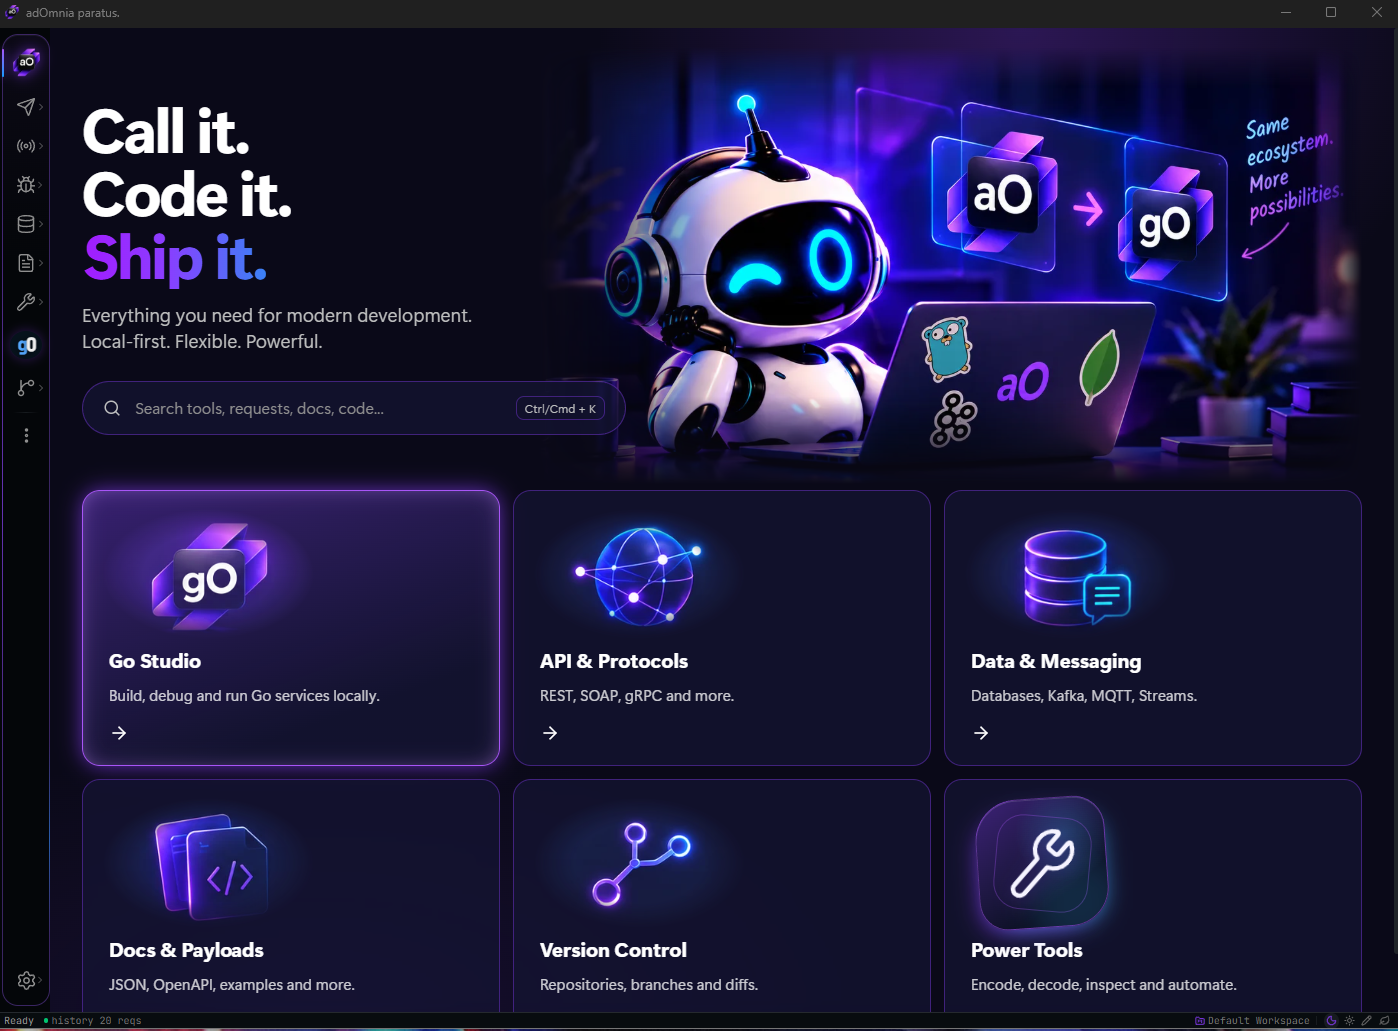
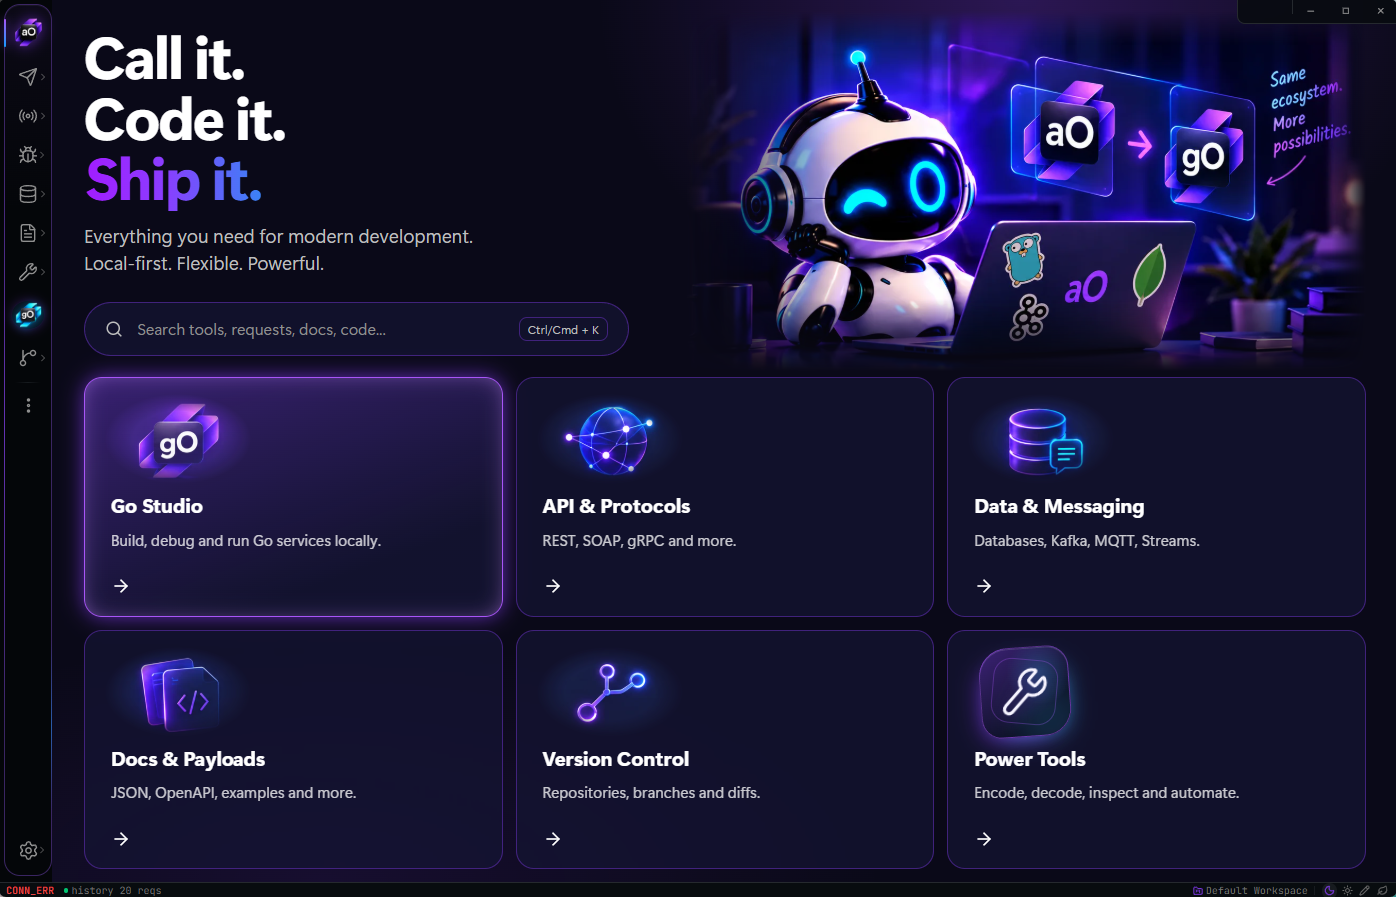
release: v0.9.53 cleaner window, one-screen Hub and Context Inspector

diff --git a/docs/releases/v0.9.53.md b/docs/releases/v0.9.53.md
@@ -1,0 +1,25 @@
+# adOmnia v0.9.53
+
+A cleaner window, a Hub that fits on one screen, a new Go Studio inspector for `context.Context`, and a fix for a confusing gopls error on startup.
+
+## UI fixes
+
+- **System title bar hidden by default.** On Windows and macOS adOmnia draws its own title bar again, including for users who had switched to the system bar after v0.9.49 (Settings v13 migrates that choice once; you can still pick *System* in Settings → Appearance). Linux keeps the system bar.
+- **Detached Go Studio windows match the main window.** They open frameless and the Go Studio toolbar acts as the window bar, so every window has the same chrome.
+- **The Hub fits on one screen.** The hero and the studio cards share the viewport height: all six studios are visible without scrolling.
+
+## Go Studio
+
+- **Context Propagation Inspector** (*View → Context Propagation Inspector*, Alt+9). Static analysis of `context.Context` in the current file, saved or not, with editor markers. It flags:
+  - `context.Background()`/`TODO()` inside a call chain;
+  - timeouts that are missing or too wide (threshold configurable);
+  - context stored in structs and leaked `cancel` funcs;
+  - ignored cancellation, broken chains and trace-ID propagation.
+
+  It works offline. The checks are conservative heuristics: they point at suspicious patterns, not certain bugs.
+- **No more "Error loading workspace folders … addView called before server initialized".** A file opened while gopls was still starting reached it too early. Documents now wait for the gopls handshake and are sent right after it.
+
+## Verification
+
+- TypeScript passes; 219 frontend test files / 965 tests pass; the production build and startup bundle budget pass.
+- `go vet` and `go test ./...` pass, including a new regression test with a slow-starting language server.

diff --git a/CHANGELOG.md b/CHANGELOG.md
@@ -6,6 +6,16 @@ This project follows a pragmatic release log format inspired by Keep a Changelog
 
 ## [Unreleased]
 
+## [0.9.53] - 2026-10-02
+
+### Added
+- **Context Propagation Inspector in Go Studio:** *View → Context Propagation Inspector* (Alt+9) analyses `context.Context` flow in the current file, offline and on unsaved buffers, with editor markers: `Background()`/`TODO()` inside call chains, missing or too-wide timeouts, context stored in structs, leaked `cancel` funcs, ignored cancellation, broken chains and trace-ID propagation.
+
+### Fixed
+- **gopls startup error:** opening a file while gopls was starting no longer shows "Error loading workspace folders … addView called before server initialized"; documents are sent only after the initialize handshake.
+- **System title bar hidden by default (Windows/macOS):** Settings v13 migrates a saved *System* choice back to the app title bar once; detached Go Studio windows are frameless and use the Go Studio toolbar as their window bar.
+- **Hub fits on one screen:** the hero and the studio cards share the viewport height, so all six studios are visible without scrolling.
+
 ## [0.9.52] - 2026-10-02
 
 ### Added

diff --git a/docs/RELEASE.md b/docs/RELEASE.md
@@ -4,6 +4,13 @@ adOmnia releases are driven by Git tags and GitHub Actions.
 
 ## Unreleased
 
+## v0.9.53 release notes: cleaner window, one-screen Hub and Context Inspector
+
+See [the full v0.9.53 notes](releases/v0.9.53.md): the system title bar is hidden
+by default again, detached Go Studio windows share the app chrome, the Hub fits on
+one screen, Go Studio adds a Context Propagation Inspector, and a gopls startup
+error ("addView called before server initialized") is fixed.
+
 ## v0.9.52 release notes: readable logs, AI privacy and a visual go.mod editor
 
 See [the full v0.9.52 notes](releases/v0.9.52.md): colour-coded Run console and
